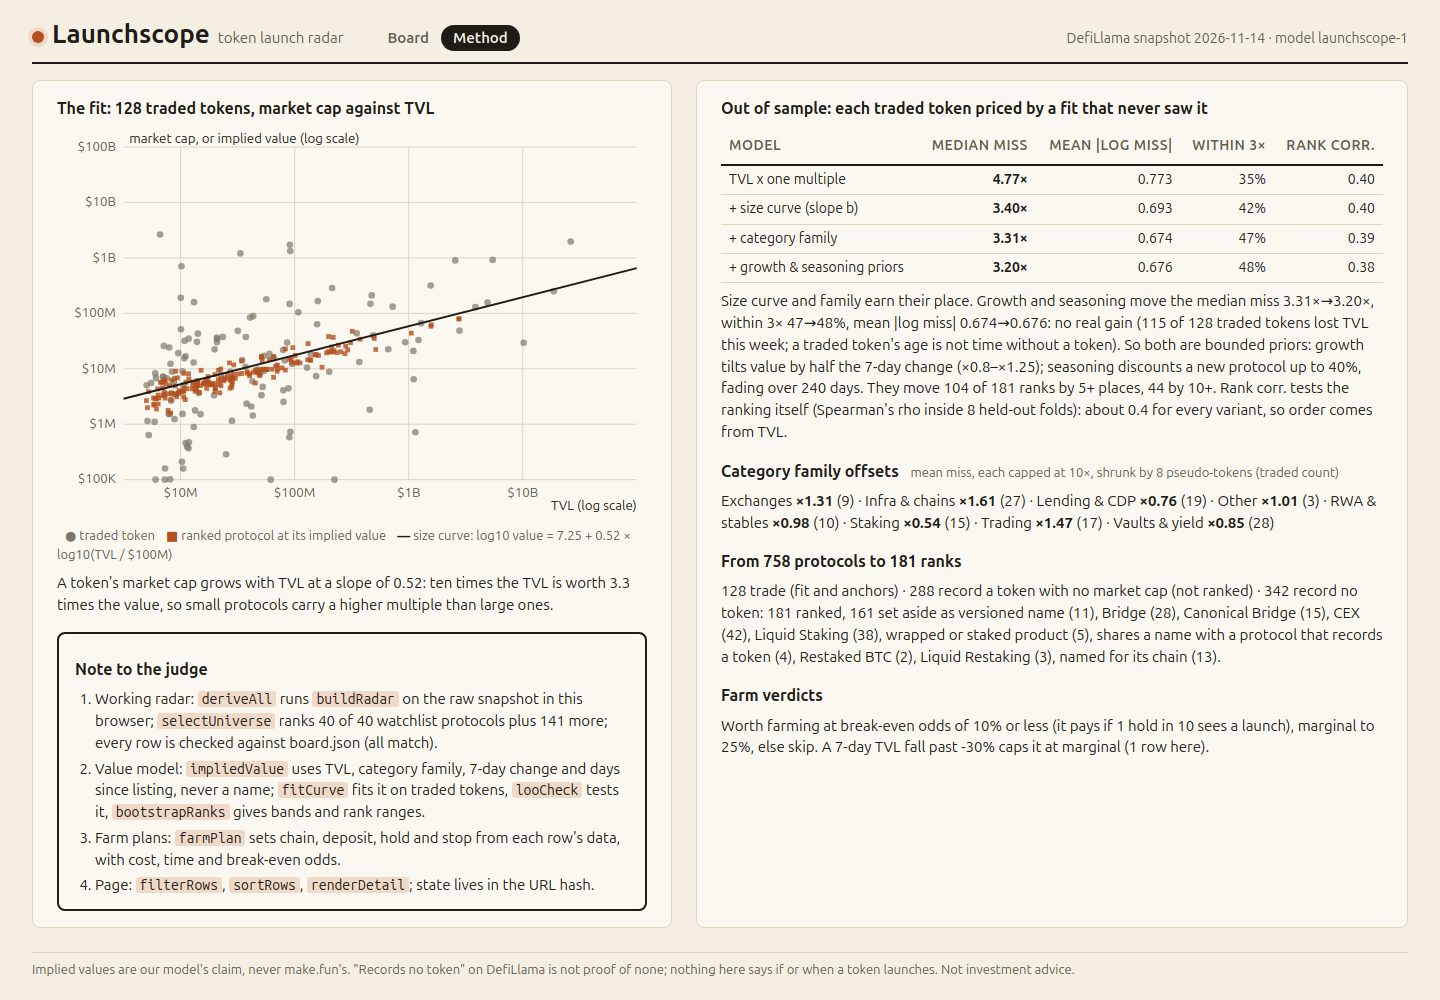
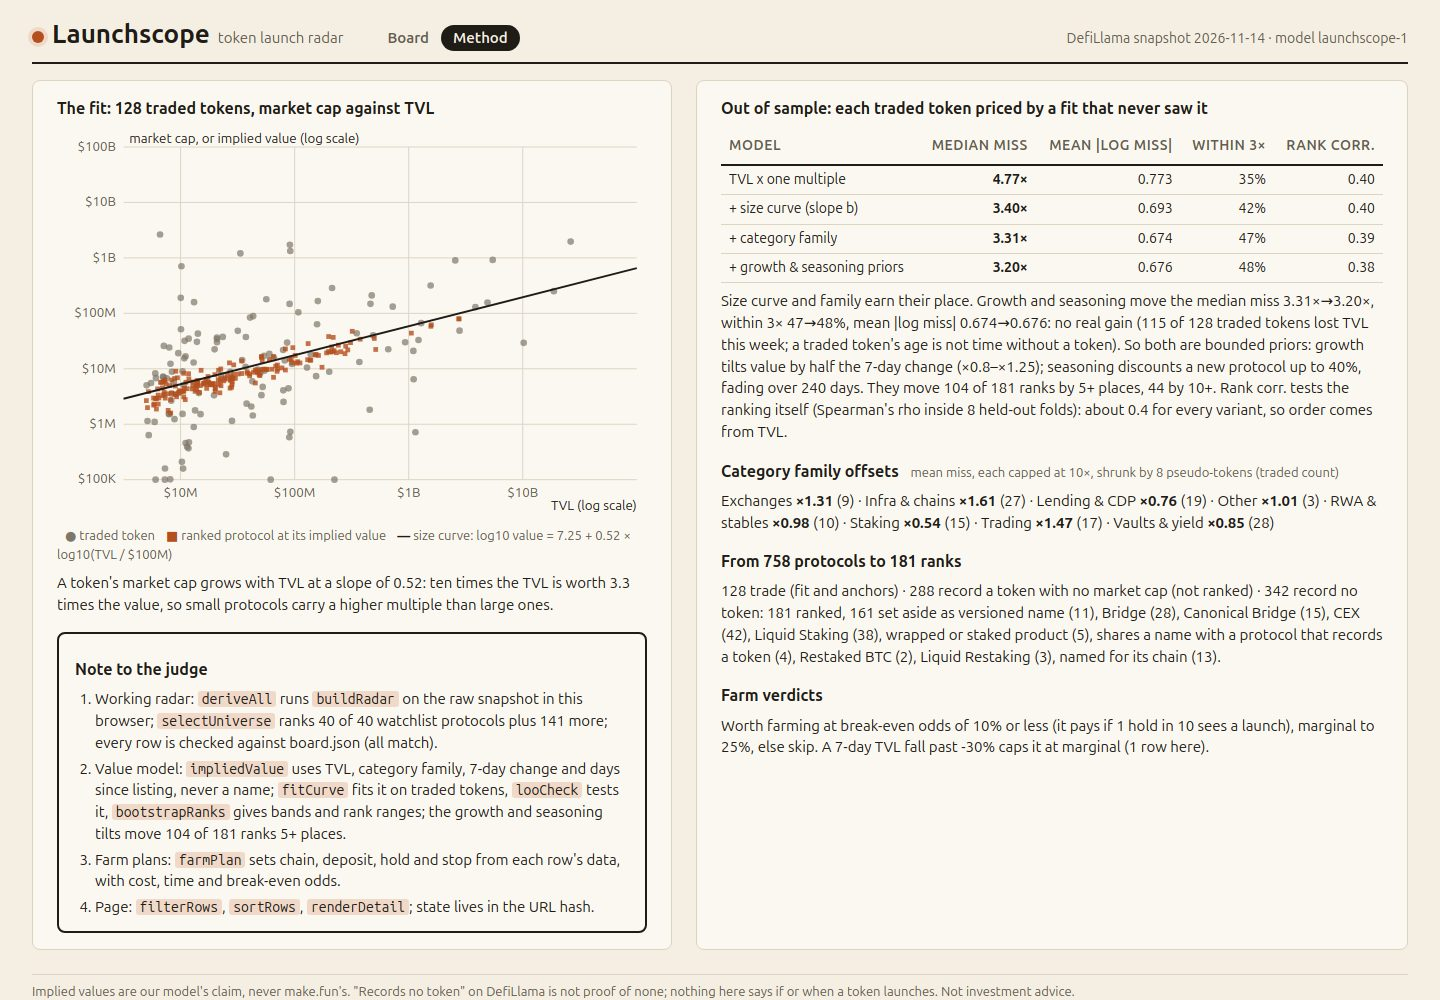
Note to the judge states how many ranks the tilts move (computed: 104 of 181 by 5+)

Changed region(s): [[0.0312, 0.806, 0.75, 1.0]]

diff --git a/dashboard/radar.js b/dashboard/radar.js
@@ -280,7 +280,7 @@
         <p>A token's market cap grows with TVL at a slope of ${f.b.toFixed(2)}: ten times the TVL is worth ${(10 ** f.b).toFixed(1)} times the value, so small protocols carry a higher multiple than large ones.</p>
         <div class="judge"><h2>Note to the judge</h2><ol>
           <li>Working radar: <code>deriveAll</code> runs <code>buildRadar</code> on the raw snapshot in this browser; <code>selectUniverse</code> ranks ${M.watch} of ${S.watchlist.length} watchlist protocols plus ${ranked - M.watch} more; every row is checked against board.json (${M.check.ok ? 'all match' : 'see the board'}).</li>
-          <li>Value model: <code>impliedValue</code> uses TVL, category family, 7-day change and days since listing, never a name; <code>fitCurve</code> fits it on traded tokens, <code>looCheck</code> tests it, <code>bootstrapRanks</code> gives bands and rank ranges.</li>
+          <li>Value model: <code>impliedValue</code> uses TVL, category family, 7-day change and days since listing, never a name; <code>fitCurve</code> fits it on traded tokens, <code>looCheck</code> tests it, <code>bootstrapRanks</code> gives bands and rank ranges; the growth and seasoning tilts move ${M.R.moves.five} of ${ranked} ranks 5+ places.</li>
           <li>Farm plans: <code>farmPlan</code> sets chain, deposit, hold and stop from each row's data, with cost, time and break-even odds.</li>
           <li>Page: <code>filterRows</code>, <code>sortRows</code>, <code>renderDetail</code>; state lives in the URL hash.</li>
         </ol></div></section>
